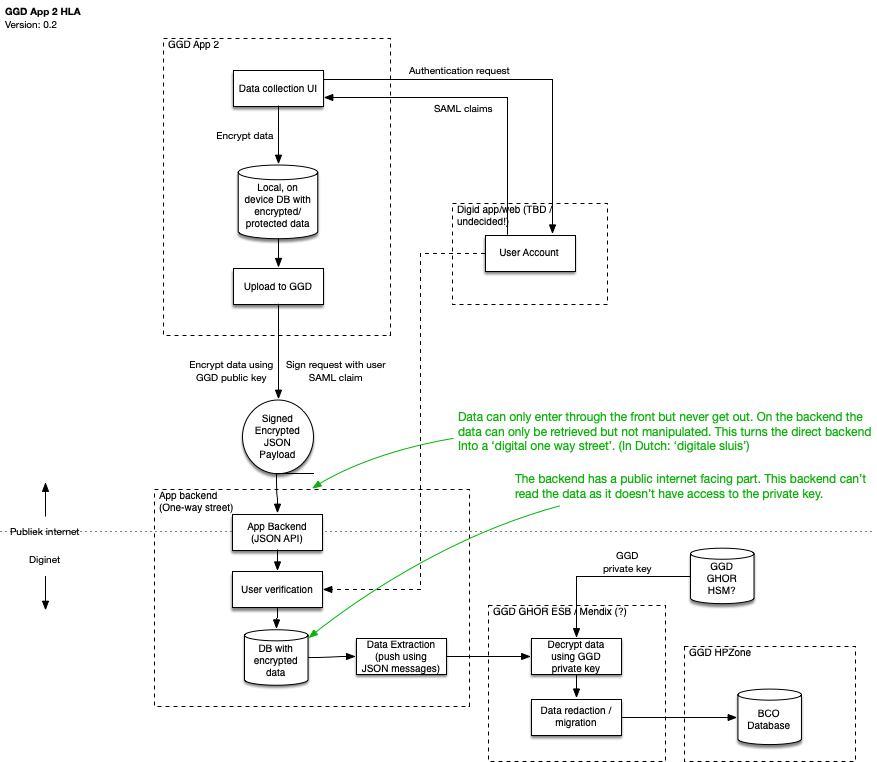
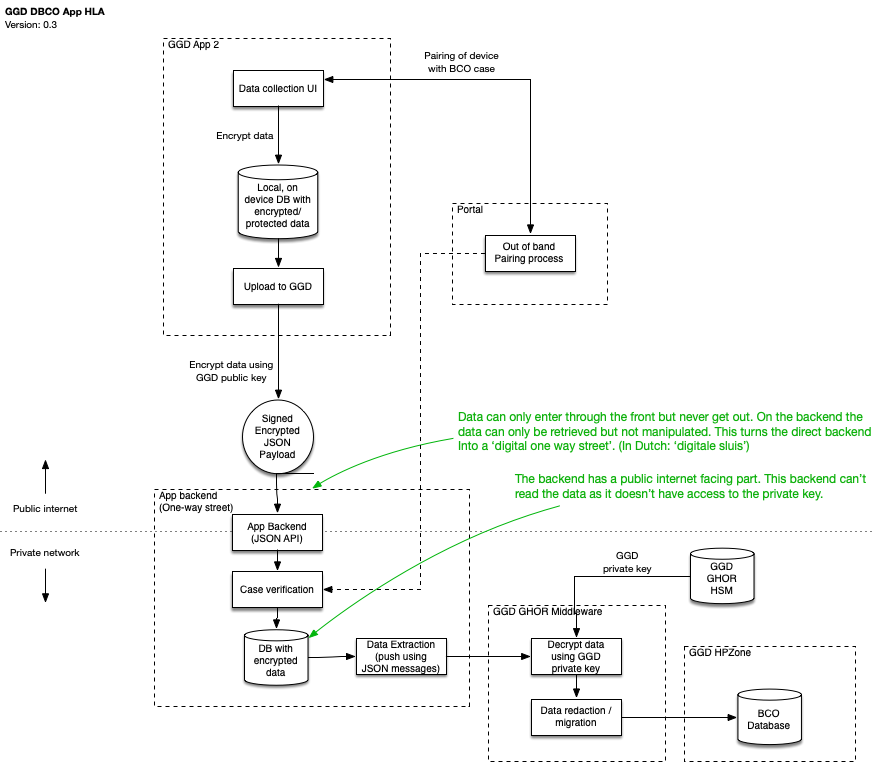
Added concept description, adjusted high level diagram to latest insights

diff --git a/architecture/Solution Architecture.md b/architecture/Solution Architecture.md
@@ -44,6 +44,7 @@ The app is build around a set of GGD requirements. For the first ('MVP') version
 
 * Bijlage 1 - Functionaliteit MVP en Oktober MVP (PVE Oktober MVP bijlagen.docx) 
 
+
 ## General Guiding principles
 
 In addition to the requirements, we have defined a number of guiding principles that a solution must adhere to. This means that this project has a number of key contextual requirements that drive or otherwise define the architecture or are used as a benchmark:
@@ -76,13 +77,24 @@ All source code will be made available on the ministry's GitHub account.
 
 # High Level Architecture
 
+## Concept
+
+The core concept of the app is described with the following steps:
+
+1. When a user is tested positive, he is contacted by the GGD to do contact tracing (who have you met, who should we warn etc.)
+2. In the current situation, this contact information is handed over orally over the phone.
+3. The DBCO project aims to deliver an app that saves time during that phone call and increases the quality of the data.
+4. To this end, during the conversation the BCO staff will still determine which people need to be contacted, but they will leave filling in the contact details to the user.
+5. The user receives, in his app, the list of people he should supply contact info for, will fill out the details, and send back the results.
+
+## Solution
+
 The following diagram shows a high level concept of the solution.
 
 ![High Level Architecture](images/HLA.png)
 
-Todo: describe 'data sluis'.
 
-Todo: describe concept of 'contact tasks' that the user gets to collect contact information.
+The core of the solution revolves around a 'digital one way street' (data-sluis) that allows uploads of contact data, in an encrypted form, that can only be decrypted by the system that needs the data. Data can never be downloaded. Edits to the data by the user happen locally on the user's device only.
 
 # Flows
 
